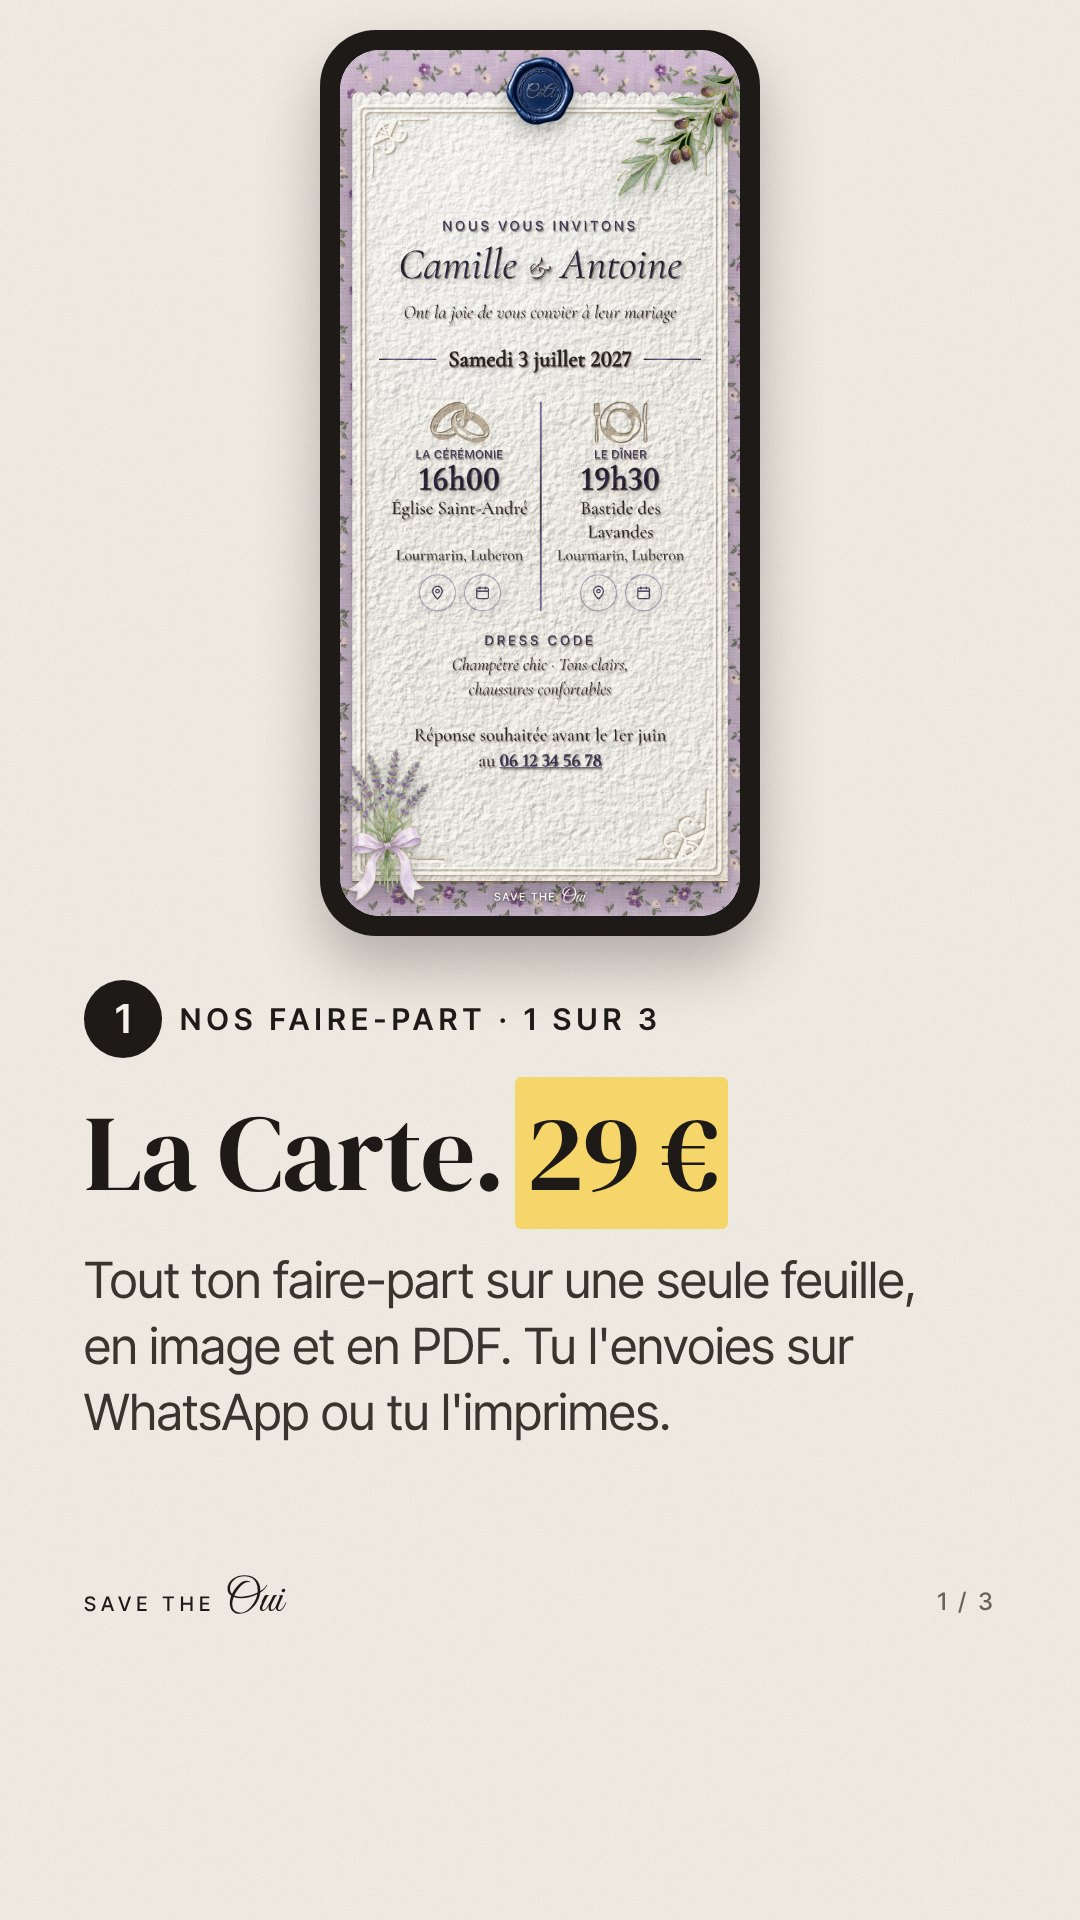
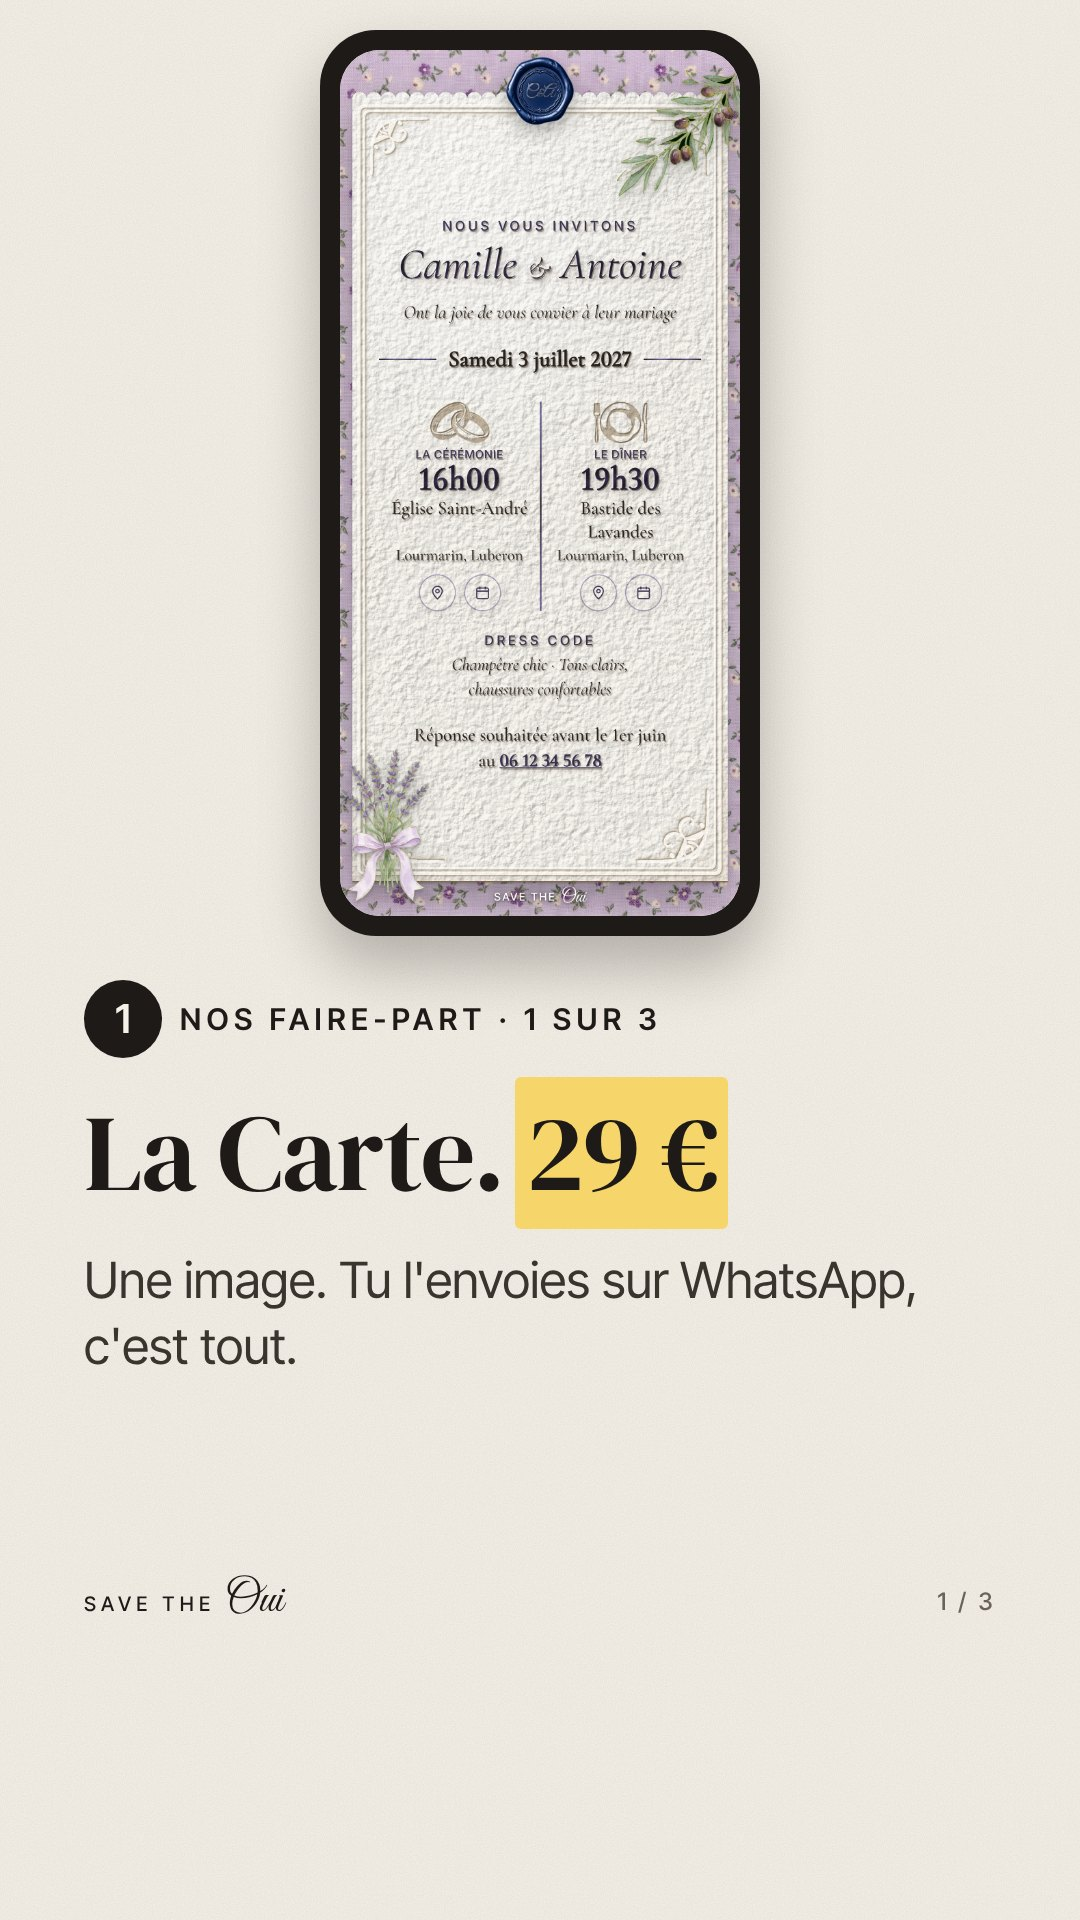
Pubs TikTok : les trois faire-part en une phrase chacun, la Page unique montre la réponse
Claude-Session: https://claude.ai/code/session_01Hwoi2iSdsehGpJdETQdhfU

Changed region(s): [[0.0611, 0.6562, 0.825, 0.75]]

diff --git a/business/ads/tiktok-infos/icones.py b/business/ads/tiktok-infos/icones.py
@@ -37,9 +37,9 @@ POSTS['repond'] = [
  dict(k="À retenir", h="<i>Enregistre</i> ce post pour le jour où tu relances.", p="Tu as une autre astuce ? Dis‑la en commentaire.", ic="bookmark", end=True),
 ]
 POSTS['types'] = [
- dict(n=1, t="Nos faire-part · 1 sur 3", h="La Carte. <i>29 €</i>", p="Tout ton faire-part sur une seule feuille, en image et en PDF. Tu l'envoies sur WhatsApp ou tu l'imprimes.", cap=dict(file="carte", full=True), end=True),
- dict(n=2, t="Nos faire-part · 2 sur 3", h="La Page unique. <i>Dès 59 €</i>", p="La même feuille, en ligne, avec un lien. Itinéraire, agenda, et le bouton Répondre en option.", cap=dict(file="page", full=True), end=True),
- dict(n=3, t="Nos faire-part · 3 sur 3", h="Le Faire-part animé. <i>Dès 99 €</i>", p="Une enveloppe qui s'ouvre, un écran par moment, et les réponses arrivent sur ton tableau de bord.", cap=dict(file="itineraire", full=True), end=True),
+ dict(n=1, t="Nos faire-part · 1 sur 3", h="La Carte. <i>29 €</i>", p="Une image. Tu l'envoies sur WhatsApp, c'est tout.", cap=dict(file="carte", full=True), end=True),
+ dict(n=2, t="Nos faire-part · 2 sur 3", h="La Page unique. <i>Dès 59 €</i>", p="Un lien. Tes invités répondent dessus, tu vois qui vient.", cap=dict(file="page-reponse", full=True), end=True),
+ dict(n=3, t="Nos faire-part · 3 sur 3", h="Le Faire-part animé. <i>Dès 99 €</i>", p="Une enveloppe qui s'ouvre, un écran par moment.", cap=dict(file="itineraire", full=True), end=True),
 ]
 POSTS['choses'] = [
  dict(k="Faire-part de mariage", h="<i>5 choses</i> à mettre absolument dans ton faire-part.", p="Elles t'éviteront cinquante messages la dernière semaine.", ic="check", go=True),
